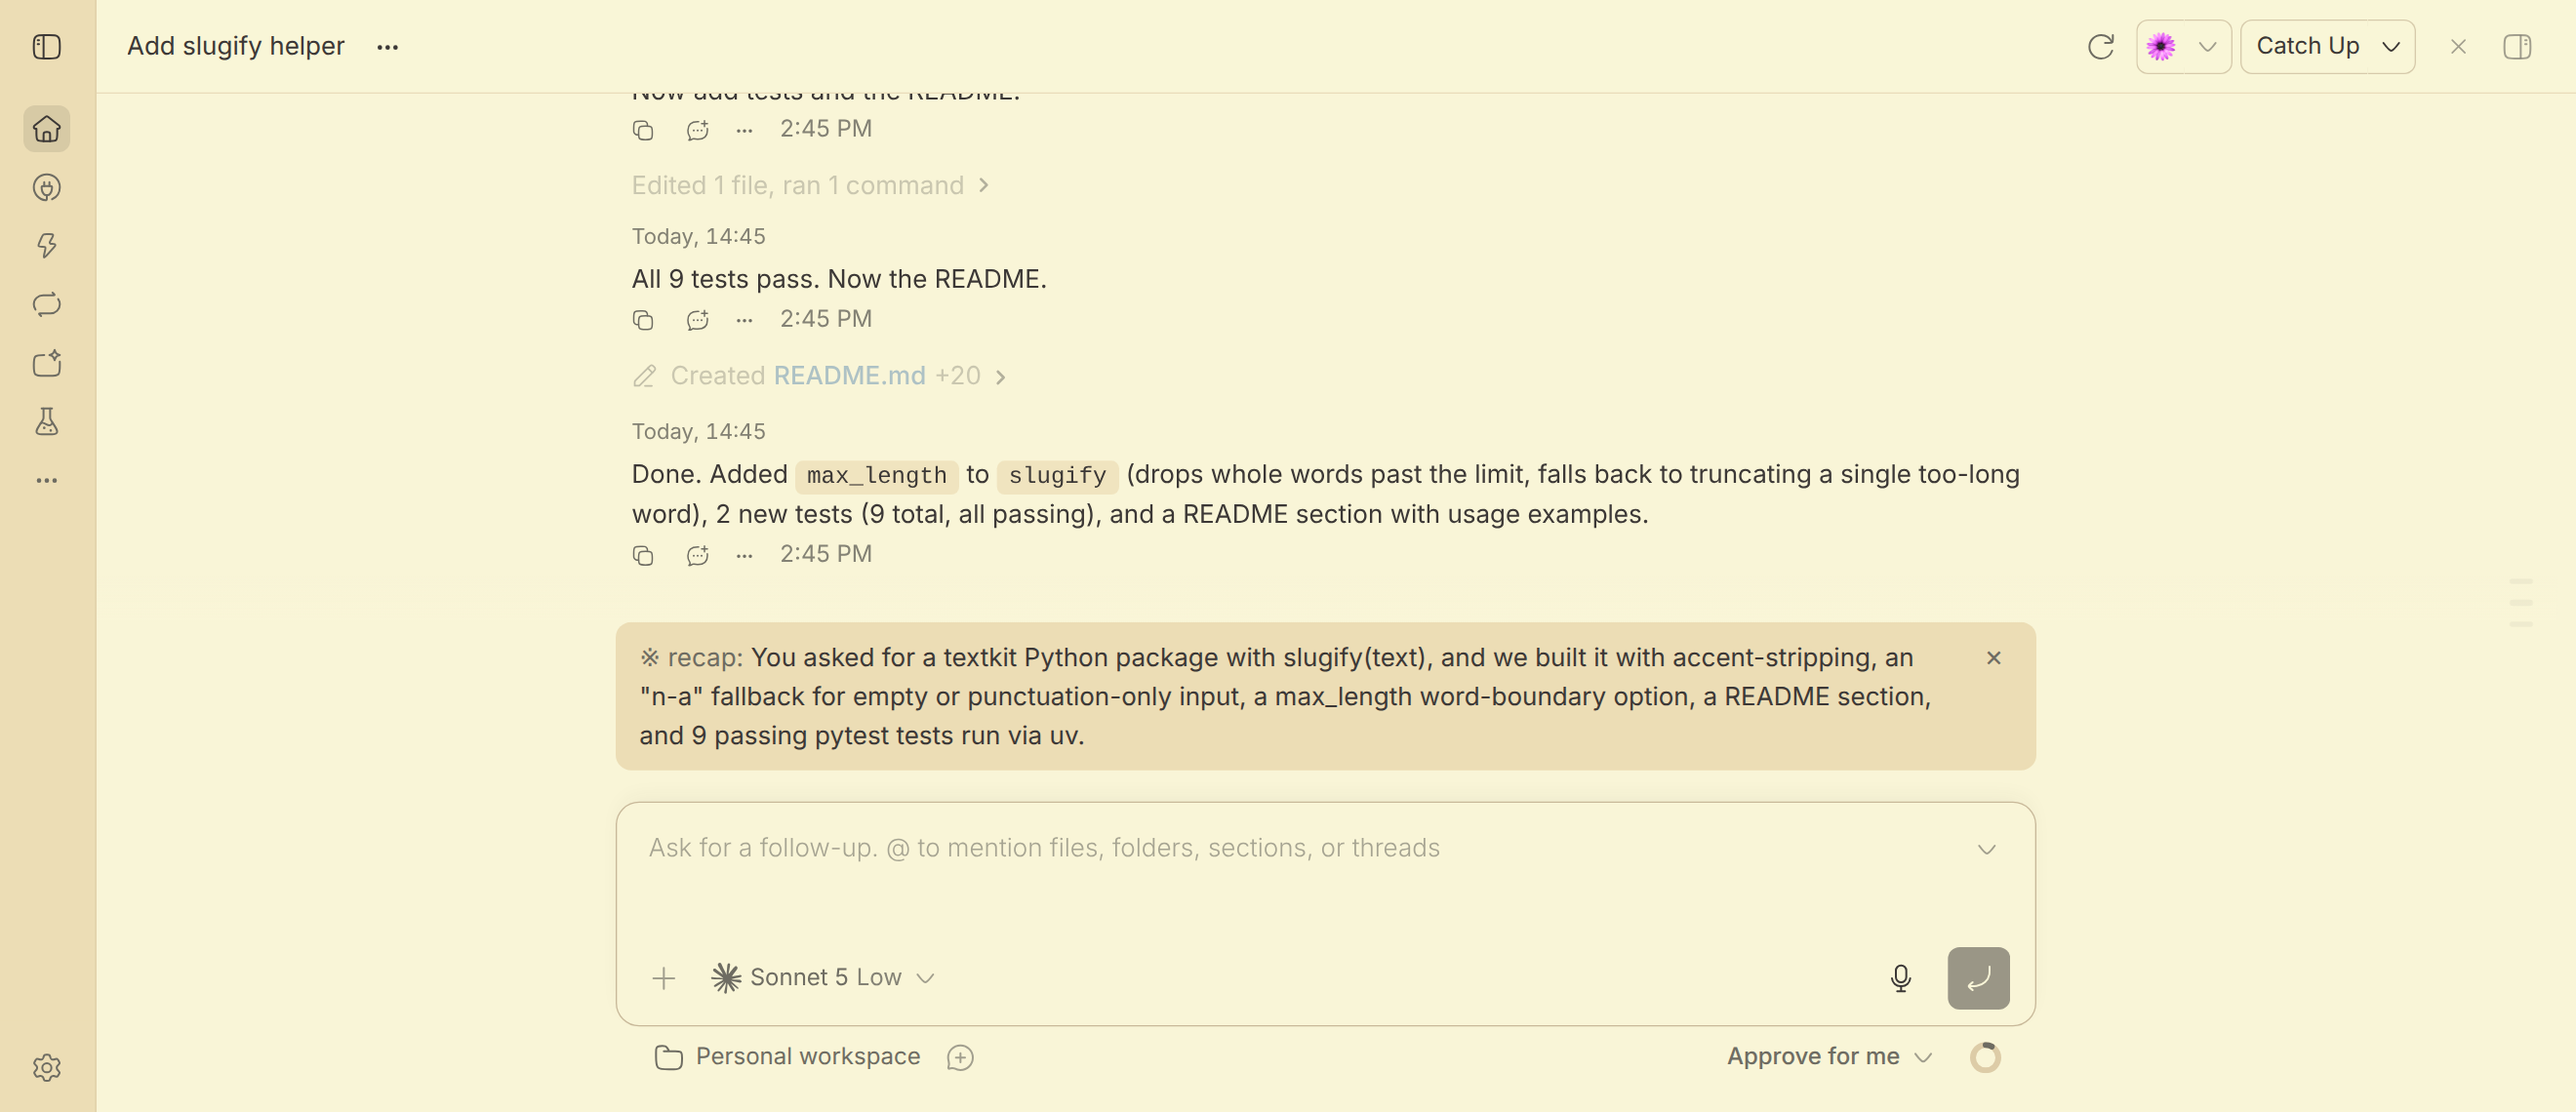
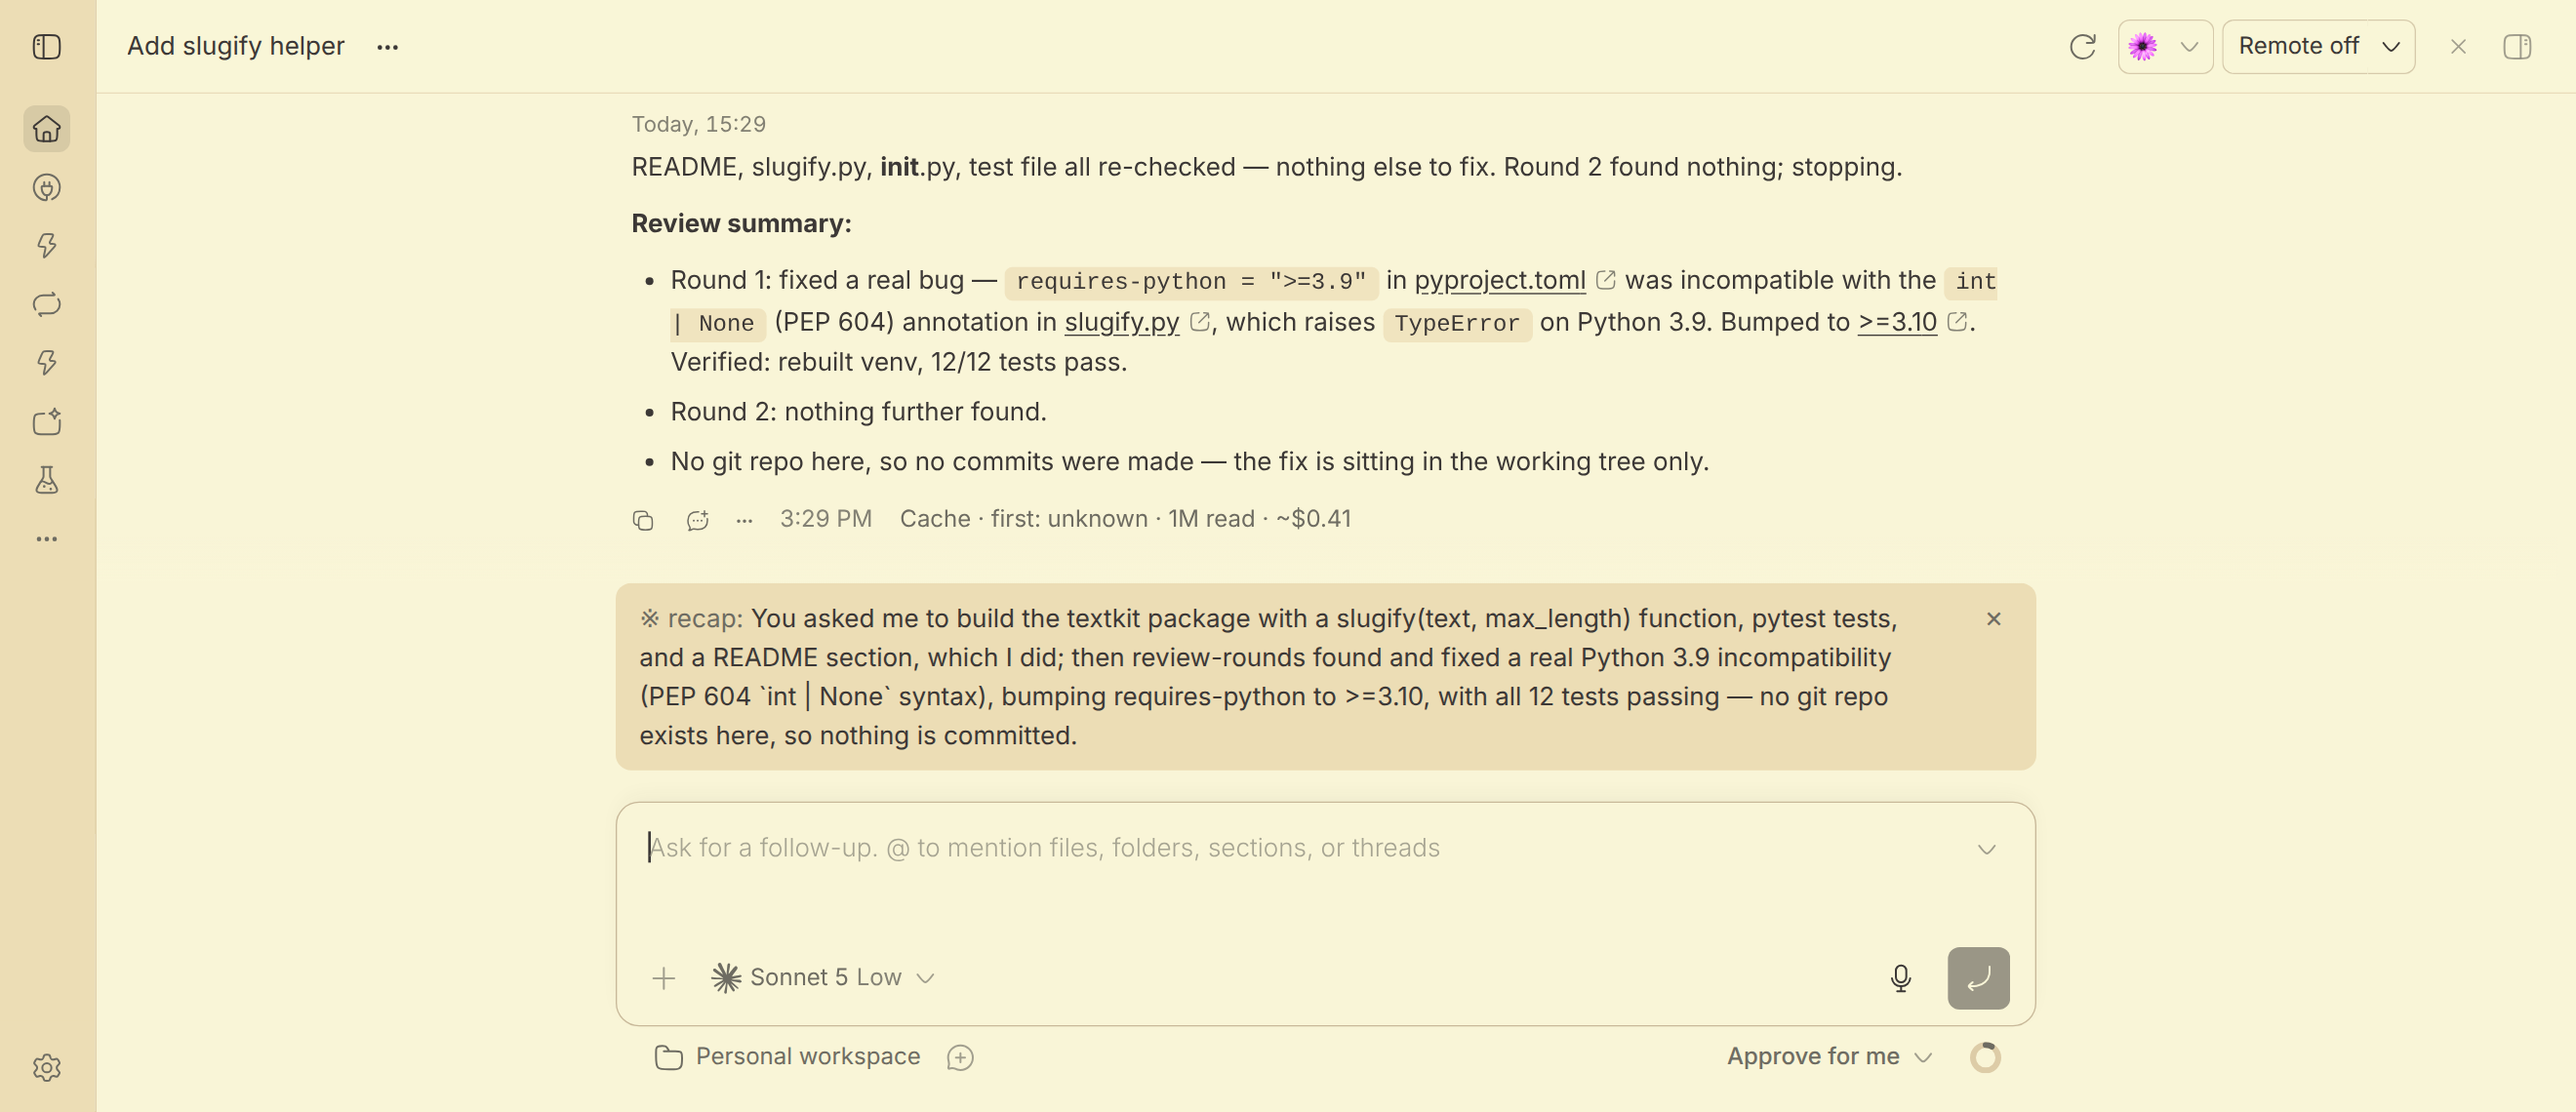
chore: release 0.3.1 with updated screenshots

diff --git a/CHANGELOG.md b/CHANGELOG.md
@@ -5,7 +5,7 @@ All notable changes to Catch Up are documented here. The format follows
 [Semantic Versioning](https://semver.org/). Versions up to 0.2.4 were released
 as [Recap](https://github.com/MacHatter1/bb-recap).
 
-## Unreleased
+## 0.3.1 - 2026-11-01
 
 ### Changed
 
